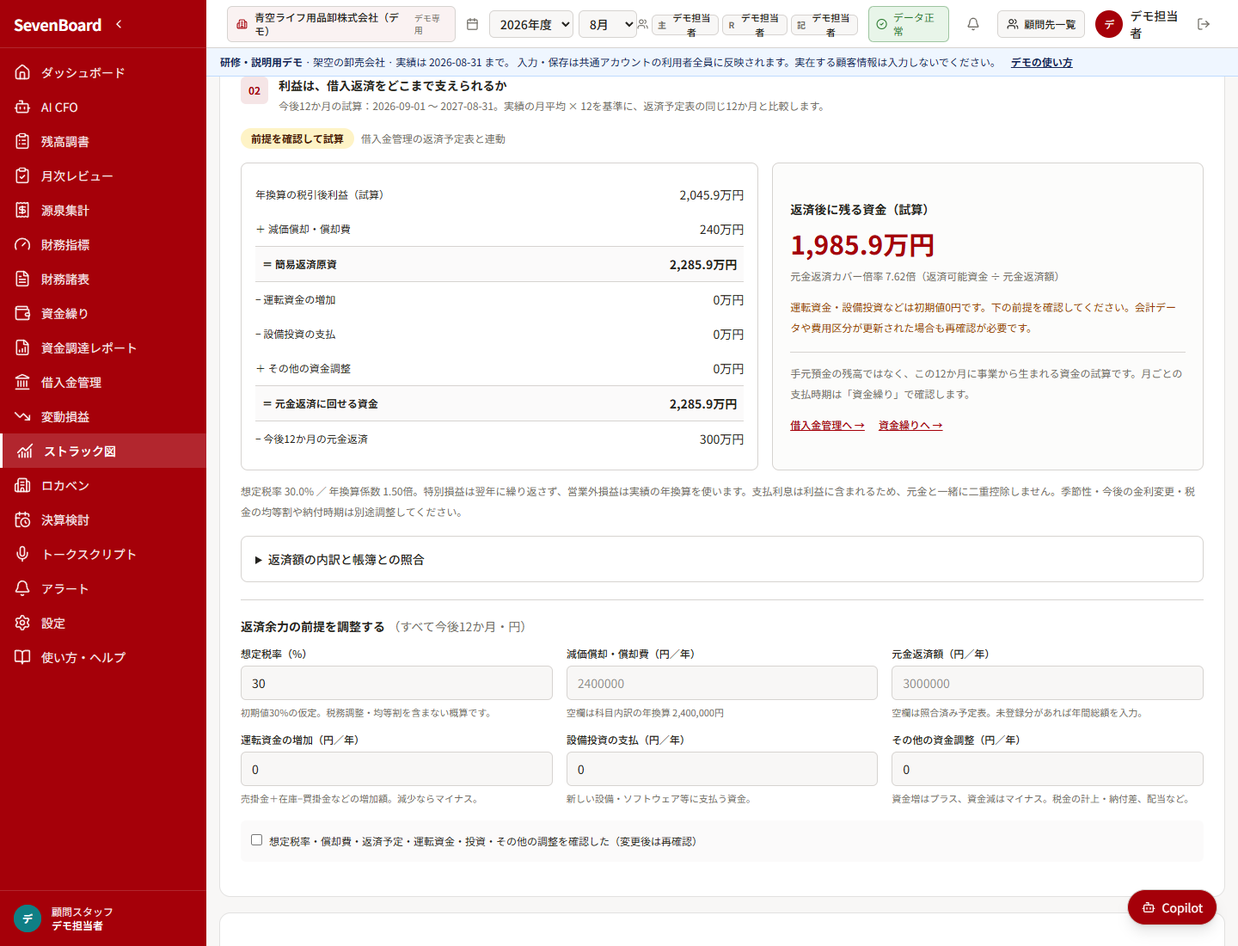
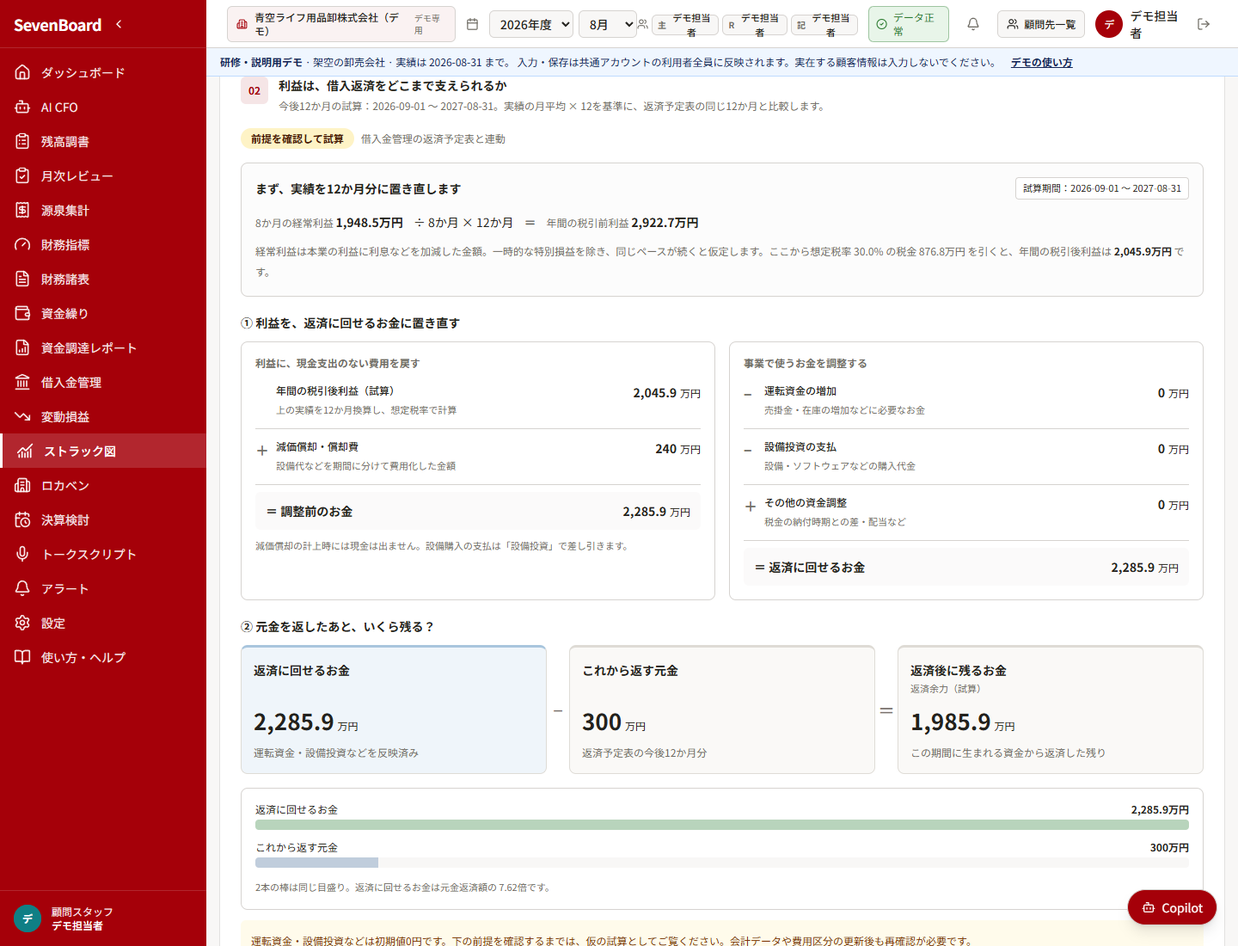
fix: clarify STRAC profit and repayment flows

diff --git a/apps/web/src/app/strac/page.tsx b/apps/web/src/app/strac/page.tsx
@@ -15,6 +15,7 @@ import { usePeriodStore } from '@/lib/period-store';
 import { api } from '@/lib/api';
 import { stracFingerprint, stracActual, stracBookDebt, stracPlan, stracRepayments, stracWindow, normalizeStracAssumptions, type StracAssumptions, type StracWindow } from '@/lib/strac';
 import { StracChart, money, percent, STRAC_UNITS, type StracUnit } from './_chart';
+import { RepaymentFlow } from './_repayment';
 import './strac.css';
 
 const featureKey = 'strac.assumptions.v1';
@@ -46,10 +47,7 @@ function SectionTitle({ number, title, description }: { number: string; title: s
   return <div className="mb-4 flex items-start gap-3"><span className="flex h-8 w-8 shrink-0 items-center justify-center rounded-md bg-primary/10 text-xs font-bold text-primary">{number}</span><div><h2 className="font-bold">{title}</h2><p className="mt-1 text-xs leading-5 text-muted-foreground">{description}</p></div></div>;
 }
 function Metric({ label, value, detail }: { label: string; value: string; detail: string }) {
-  return <Card><CardContent className="p-4"><p className="text-xs text-muted-foreground">{label}</p><p className="mt-2 break-words text-2xl font-bold tabular-nums">{value}</p><p className="mt-1 text-[11px] leading-5 text-muted-foreground">{detail}</p></CardContent></Card>;
-}
-function BridgeRow({ label, value, strong = false }: { label: string; value: string; strong?: boolean }) {
-  return <div className={`flex flex-wrap items-center justify-between gap-2 py-2.5 text-sm ${strong ? 'border-y bg-muted/60 px-2 font-bold' : ''}`}><span className="text-xs">{label}</span><span className="tabular-nums">{value}</span></div>;
+  return <Card data-print-block><CardContent className="p-4"><p className="text-xs text-muted-foreground">{label}</p><p className="mt-2 break-words text-2xl font-bold tabular-nums">{value}</p><p className="mt-1 text-[11px] leading-5 text-muted-foreground">{detail}</p></CardContent></Card>;
 }
 function Insight({ title, children }: { title: string; children: React.ReactNode }) {
   return <div className="rounded-lg border bg-card p-4"><h3 className="flex items-start gap-2 text-sm font-semibold"><ArrowRight className="mt-0.5 h-4 w-4 shrink-0 text-primary" />{title}</h3><p className="mt-2 text-xs leading-7 text-muted-foreground">{children}</p></div>;
@@ -94,21 +92,17 @@ function StracContent({ orgId, company, window: w, readOnly }: { orgId: string; 
     <div className="flex flex-wrap items-center justify-between gap-3 text-xs"><div><p className="font-semibold">{company}</p><p className="mt-1 text-muted-foreground">実績：{w.start} 〜 {w.end}（{w.months}か月累計）</p></div><div className="screen-only flex items-center gap-3"><label>表示単位 <select aria-label="表示単位" value={unit} onChange={e => setUnit(e.target.value as StracUnit)} className="ml-1 rounded border bg-card p-2">{Object.keys(STRAC_UNITS).map(u => <option key={u}>{u}</option>)}</select></label><Button variant="outline" size="sm" onClick={retry} disabled={queries.some(q => q.isFetching)}><RefreshCw className="h-3.5 w-3.5" />再取得</Button></div></div>
     {w.capped && <Notice>未経過の月を含めず、{w.end}までの月末実績を表示しています。</Notice>}
     {!sourceReady && <Notice warning>{issueList(actual.issues)}<p className="mt-2">P/Lとの一致を確認するまで、返済余力の試算を保留します。</p></Notice>}
-    <div className="grid gap-3 sm:grid-cols-2 xl:grid-cols-4">
+    <Card><CardContent className="p-4 sm:p-6">
+      <SectionTitle number="01" title="売上は、どこで利益になるか" description={`実績：${w.start} 〜 ${w.end}（${w.months}か月）。上から順に、売上から最終的な利益までを確認します。`} />
+      {[actual.revenue, actual.variable, actual.fixed, actual.operating].every(Number.isFinite) ? <StracChart data={actual} unit={unit} /> : <Notice warning>図を描画できる数値を取得できませんでした。</Notice>}
+    </CardContent></Card>
+    <div className="strac-metrics grid gap-3 sm:grid-cols-2 xl:grid-cols-4">
       <Metric label="売上100円から残る限界利益" value={actual.margin === null ? '—' : `${(actual.margin * 100).toFixed(1)}円`} detail="売上 − 変動費。固定費と利益の原資です。" />
       <Metric label="損益分岐点売上高" value={amount(actual.breakEven)} detail="営業利益が0になる売上。表示実績期間の金額。" />
       <Metric label="経営安全率" value={percent(actual.safetyMargin)} detail="現在の売上が損益分岐点を上回る割合。" />
       <Metric label="労働分配率" value={percent(actual.laborShare)} detail="固定費に区分した人件費 ÷ 限界利益。" />
     </div>
-    <Card><CardContent className="p-4 sm:p-6">
-      <SectionTitle number="01" title="売上は、どこで利益になるか" description="MFの損益を変動費・固定費に組み替えます。「変動損益」の保存済み区分と連動します。" />
-      {[actual.revenue, actual.variable, actual.fixed, actual.operating].every(Number.isFinite) ? <StracChart data={actual} unit={unit} /> : <Notice warning>図を描画できる数値を取得できませんでした。</Notice>}
-      <div className="mt-4 grid gap-2 rounded-lg bg-muted/60 p-4 sm:grid-cols-5" aria-label="営業利益から当期純利益へのつながり">
-        {([['営業利益', actual.operating], ['営業外損益', actual.nonOperating], ['特別損益', actual.extraordinary], ['法人税等', actual.tax], ['当期純利益', actual.net]] as const).map(([label, v], i) => <div key={label} className="min-w-0"><p className="text-[11px] text-muted-foreground">{i > 0 ? i === 3 ? '− ' : i === 4 ? '= ' : '+ ' : ''}{label}</p><p className="mt-1 break-words text-sm font-bold tabular-nums">{amount(v)}</p></div>)}
-      </div>
-      <p className="mt-2 text-xs text-muted-foreground">税引前利益 {amount(actual.pretax)}。記帳途中・決算整理未反映の数値を含む場合があります。限界利益は粗利とは異なります。荷造運賃など、販管費の変動費も差し引きます。</p>
-    </CardContent></Card>
-    {sourceReady && <div className="grid gap-3 lg:grid-cols-3">
+    {sourceReady && <div className="strac-insights grid gap-3 lg:grid-cols-3">
       <Insight title="売上を増やす前に、残る割合を見る">{actual.margin !== null && actual.margin > 0 ? <>同じ費用構成で売上が100万円増えると、固定費が増えなければ営業利益は約{amount(actual.margin * 1_000_000)}増えます。値引きや追加の人員・物流費をセットで確認しましょう。</> : <>限界利益がプラスになっていません。売上拡大だけでは改善しないため、販売単価・仕入条件・費用区分を先に確認します。</>}</Insight>
       <Insight title="固定費を支える売上の幅をつかむ">{actual.breakEven !== null ? <>現在の売上は損益分岐点を{amount(Math.abs(actual.revenue - actual.breakEven))}{actual.revenue >= actual.breakEven ? '上回っています' : '下回っています'}。{actual.safetyMargin !== null && actual.safetyMargin >= 0 ? `同じ限界利益率なら、売上が約${percent(actual.safetyMargin)}減ると営業利益が0になります。` : '限界利益の増加または固定費の見直しが必要です。'}</> : <>限界利益率が0以下などのため、損益分岐点を算出できません。費用の区分と採算を確認します。</>}</Insight>
       <Insight title="利益と返済原資の差に注目する">借入元金の返済は費用になりません。利益に減価償却費を戻し、在庫・売掛金の増加や設備投資で使う資金を引いたうえで、下の返済予定額と比較します。</Insight>
@@ -120,18 +114,7 @@ function StracContent({ orgId, company, window: w, readOnly }: { orgId: string; 
       {(loans.isError || bs.isError) && <Notice warning>返済予定表または帳簿残高を取得できませんでした。元金返済額は未確認です。「再取得」または確認済みの年間返済額を入力してください。</Notice>}
       {repayment && !repayment.complete && <Notice warning>{issueList(repayment.issues)}<Link href="/loans" className="mt-2 inline-block underline">借入金管理で確認する</Link></Notice>}
       {repayment?.estimated && <p className="mb-3 text-xs text-amber-800">返済予定表に推定した金額が含まれています。銀行の予定表と照合してください。</p>}
-      {validPlan ? <div className="mt-4 grid gap-4 lg:grid-cols-[1.2fr_1fr]">
-        <div className="rounded-lg border p-4" aria-label="返済原資の計算">
-          <BridgeRow label="年換算の税引後利益（試算）" value={amount(plan.base.net)} /><BridgeRow label="＋ 減価償却・償却費" value={amount(plan.depreciation)} /><BridgeRow label="＝ 簡易返済原資" value={amount(plan.base.simpleCash)} strong />
-          <BridgeRow label="− 運転資金の増加" value={amount(plan.workingCapital)} /><BridgeRow label="− 設備投資の支払" value={amount(plan.capex)} /><BridgeRow label="＋ その他の資金調整" value={amount(plan.otherCash)} /><BridgeRow label="＝ 元金返済に回せる資金" value={amount(plan.base.availableCash)} strong /><BridgeRow label="− 今後12か月の元金返済" value={amount(plan.principal)} />
-        </div>
-        <div data-print-block className="flex flex-col justify-center rounded-lg border bg-muted/40 p-5"><p className="text-sm font-semibold">返済後に残る資金（試算）</p><p data-testid="strac-surplus" className={`mt-3 break-words text-3xl font-bold tabular-nums ${plan.base.surplus !== null && plan.base.surplus < 0 ? 'text-red-700' : 'text-primary'}`}>{amount(plan.base.surplus)}</p>
-          <p className="mt-2 text-xs leading-6 text-muted-foreground">{plan.base.coverage === null ? plan.principal === 0 ? '登録・確認済みの元金返済額は0円です。倍率は表示しません。' : '返済額が未確認のため、過不足を判定していません。' : `元金返済カバー倍率 ${plan.base.coverage.toFixed(2)}倍（返済可能資金 ÷ 元金返済額）`}</p>
-          {!reviewed && <p className="mt-3 text-xs leading-6 text-amber-800">運転資金・設備投資などは初期値0円です。下の前提を確認してください。会計データや費用区分が更新された場合も再確認が必要です。</p>}
-          <div className="mt-4 border-t pt-3 text-xs leading-6 text-muted-foreground">手元預金の残高ではなく、この12か月に事業から生まれる資金の試算です。月ごとの支払時期は「資金繰り」で確認します。</div>
-          <div className="screen-only mt-4 flex flex-wrap gap-4 text-xs font-medium text-primary"><Link href="/loans" className="underline">借入金管理へ →</Link><Link href="/cashflow" className="underline">資金繰りへ →</Link></div>
-        </div>
-      </div> : <Notice warning>{saved.isPending ? '保存済みの前提を読み込んでいます…' : saved.isError ? '保存済みの前提を取得できないため試算を保留しています。再取得してください。' : issueList(plan.issues)}</Notice>}
+      {validPlan ? <RepaymentFlow plan={plan} actual={actual} window={w} unit={unit} reviewed={reviewed} /> : <Notice warning>{saved.isPending ? '保存済みの前提を読み込んでいます…' : saved.isError ? '保存済みの前提を取得できないため試算を保留しています。再取得してください。' : issueList(plan.issues)}</Notice>}
       <p className="mt-3 text-xs leading-6 text-muted-foreground">想定税率 {percent(plan.taxRate)} ／ 年換算係数 {plan.factor.toFixed(2)}倍。特別損益は翌年に繰り返さず、営業外損益は実績の年換算を使います。支払利息は利益に含まれるため、元金と一緒に二重控除しません。季節性・今後の金利変更・税金の均等割や納付時期は別途調整してください。</p>
       <details className="mt-4 rounded-lg border p-4"><summary className="cursor-pointer text-sm font-medium">返済額の内訳と帳簿との照合</summary>
         {repayment ? <div className="mt-3 text-xs leading-6"><p>基準日 {w.end}：予定表残高 {yen(repayment.balance)} ／ 帳簿借入残高 {yen(bs.data ? stracBookDebt(bs.data) : null)}</p>{repayment.rows.length > 0 ? <div className="mt-2 space-y-2">{repayment.rows.map(r => <div key={r.id} className="flex flex-wrap justify-between gap-2 rounded bg-muted p-2"><Link href={`/loans/${r.id}`} className="underline">{r.name}</Link><span>元金 {yen(r.principal)} ／ 利息 {yen(r.interest)}（参考）</span></div>)}</div> : <p>登録された借入はありません。</p>}{plan.manualPrincipal && <p className="mt-2 text-amber-800">試算には、手入力の元金返済額 {yen(plan.principal)}を使用しています。</p>}</div> : <p className="mt-3 text-xs text-muted-foreground">返済額の取得・照合が完了していません。</p>}
@@ -157,7 +140,7 @@ function StracContent({ orgId, company, window: w, readOnly }: { orgId: string; 
         {field('fixedReduction', '固定費の削減額（円／年）', '支出を伴う費用の削減。償却費も変える場合は前提欄も調整。')}
         {field('retainedCash', '返済後に残したい資金（円／年）', '下の「必要売上高」に反映します。')}
       </div>
-      {validPlan ? <div className="mt-5 grid gap-3 lg:grid-cols-3">
+      {validPlan ? <div className="strac-scenario mt-5 grid gap-3 lg:grid-cols-3">
         <Metric label="改善後の返済余力" value={amount(plan.scenario.surplus)} detail={`改善前 ${amount(plan.base.surplus)} → 差額 ${amount(delta)}`} />
         <Metric label="返済と目標資金を満たす必要売上高" value={amount(plan.scenario.requiredRevenue)} detail={plan.scenario.requiredRevenue === null ? '元金返済額の確認と、プラスの限界利益率が必要です。' : `改善後の限界利益率 ${percent(plan.scenario.margin)}・固定費 ${amount(plan.scenario.fixed)}で逆算。`} />
         <Metric label="改善シナリオの年間売上" value={amount(plan.scenario.revenue)} detail={plan.scenario.requiredRevenue === null ? '必要売上高は未算出です。' : plan.scenario.revenue >= plan.scenario.requiredRevenue ? `必要売上を ${amount(plan.scenario.revenue - plan.scenario.requiredRevenue)}上回る計画です。` : `目標まで、さらに ${amount(plan.scenario.requiredRevenue - plan.scenario.revenue)}の売上が必要です。`} />

diff --git a/apps/web/src/app/strac/_repayment.tsx b/apps/web/src/app/strac/_repayment.tsx
@@ -1,0 +1,60 @@
+import Link from 'next/link';
+import type { stracPlan, StracActual, StracWindow } from '@/lib/strac';
+import { FlowAmount, FlowCard, money, percent, type StracUnit } from './_chart';
+
+type Plan = ReturnType<typeof stracPlan>;
+function Adjustment({ sign, label, description, value, unit }: { sign: string; label: string; description: string; value: number; unit: StracUnit }) {
+  return <div className="flex flex-wrap items-start justify-between gap-x-4 gap-y-1 border-b py-3 last:border-0"><div className="flex min-w-0 items-start gap-2"><span className="w-4 shrink-0 text-base font-semibold text-muted-foreground" aria-hidden="true">{sign}</span><div><p className="text-xs font-medium">{label}</p><p className="mt-1 text-[11px] leading-5 text-muted-foreground">{description}</p></div></div><p className="ml-6 text-sm font-semibold"><FlowAmount value={value} unit={unit} /></p></div>;
+}
+
+export function RepaymentFlow({ plan: p, actual, window: w, unit, reviewed }: { plan: Plan; actual: StracActual; window: StracWindow; unit: StracUnit; reviewed: boolean }) {
+  const base = p.base;
+  const negative = base.surplus !== null && base.surplus < 0;
+  const scale = Math.max(1, base.availableCash, p.principal ?? 0);
+  const amount = (v: number | null) => `${money(v, unit)}${v === null ? '' : unit}`;
+  return <div className="mt-4 space-y-5">
+    <div data-print-block className="rounded-lg border bg-muted/30 p-4">
+      <div className="flex flex-wrap items-center justify-between gap-2"><h3 className="text-sm font-semibold">まず、実績を12か月分に置き直します</h3><span className="rounded border bg-card px-2 py-1 text-[11px]">試算期間：{w.nextStart} 〜 {w.nextEnd}</span></div>
+      <div className="mt-3 flex flex-wrap items-center gap-x-3 gap-y-2 text-sm leading-7" aria-label="実績から年間利益への換算">
+        <span><span className="text-xs text-muted-foreground">{w.months}か月の経常利益 </span><strong>{amount(actual.ordinary)}</strong></span><span>÷ {w.months}か月 × 12か月</span><span>＝</span><span><span className="text-xs text-muted-foreground">年間の税引前利益 </span><strong>{amount(base.pretax)}</strong></span>
+      </div>
+      <p className="mt-2 text-xs leading-6 text-muted-foreground">経常利益は本業の利益に利息などを加減した金額。一時的な特別損益を除き、同じペースが続くと仮定します。ここから想定税率 {percent(p.taxRate)} の税金 {amount(base.tax)} を引くと、年間の税引後利益は <strong className="text-foreground">{amount(base.net)}</strong> です。</p>
+    </div>
+
+    <div data-print-block>
+      <h3 className="mb-3 text-sm font-semibold">① 利益を、返済に回せるお金に置き直す</h3>
+      <div className="strac-cash-adjustments grid gap-4 lg:grid-cols-2" aria-label="返済原資の計算">
+        <div className="rounded-lg border p-4">
+          <p className="mb-1 text-xs font-semibold text-muted-foreground">利益に、現金支出のない費用を戻す</p>
+          <Adjustment sign="" label="年間の税引後利益（試算）" description="上の実績を12か月換算し、想定税率で計算" value={base.net} unit={unit} />
+          <Adjustment sign="＋" label="減価償却・償却費" description="設備代などを期間に分けて費用化した金額" value={p.depreciation} unit={unit} />
+          <div className="mt-2 flex flex-wrap justify-between gap-2 rounded-md bg-muted/60 p-3 text-sm font-semibold"><span>＝ 調整前のお金</span><FlowAmount value={base.simpleCash} unit={unit} /></div>
+          <p className="mt-2 text-[11px] leading-5 text-muted-foreground">減価償却の計上時には現金は出ません。設備購入の支払は「設備投資」で差し引きます。</p>
+        </div>
+        <div className="rounded-lg border p-4">
+          <p className="mb-1 text-xs font-semibold text-muted-foreground">事業で使うお金を調整する</p>
+          <Adjustment sign="−" label="運転資金の増加" description="売掛金・在庫の増加などに必要なお金" value={p.workingCapital} unit={unit} />
+          <Adjustment sign="−" label="設備投資の支払" description="設備・ソフトウェアなどの購入代金" value={p.capex} unit={unit} />
+          <Adjustment sign="＋" label="その他の資金調整" description="税金の納付時期との差・配当など" value={p.otherCash} unit={unit} />
+          <div className="mt-2 flex flex-wrap justify-between gap-2 rounded-md bg-muted/60 p-3 text-sm font-semibold"><span>＝ 返済に回せるお金</span><FlowAmount value={base.availableCash} unit={unit} /></div>
+        </div>
+      </div>
+    </div>
+
+    <div data-print-block>
+      <h3 className="mb-3 text-sm font-semibold">② 元金を返したあと、いくら残る？</h3>
+      <div className="strac-flow strac-flow-three strac-repayment-result" aria-label="返済後に残るお金の計算">
+        <FlowCard label="返済に回せるお金" value={base.availableCash} unit={unit} tone="sales" testId="strac-available">運転資金・設備投資などを反映済み</FlowCard>
+        <FlowCard label="これから返す元金" value={p.principal} unit={unit} operator="−" testId="strac-principal">{p.principal === null ? '返済予定が未確認です' : p.manualPrincipal ? '手入力した今後12か月の総額' : '返済予定表の今後12か月分'}</FlowCard>
+        <FlowCard label={base.surplus === null ? '返済後に残るお金' : negative ? '返済に足りないお金' : '返済後に残るお金'} term="返済余力（試算）" value={base.surplus} unit={unit} operator="＝" tone={negative ? 'profit' : reviewed && base.surplus !== null ? 'margin' : 'neutral'} testId="strac-surplus">{base.surplus === null ? '返済額を確認すると計算できます' : negative ? 'この前提では返済資金が不足します' : 'この期間に生まれる資金から返済した残り'}</FlowCard>
+      </div>
+      {p.principal !== null && base.availableCash >= 0 ? <div className="mt-4 space-y-3 rounded-lg border p-4" aria-label="返済原資と元金返済の同じ目盛りでの比較">
+        {[{ label: '返済に回せるお金', value: base.availableCash, color: '#b8d4bc' }, { label: 'これから返す元金', value: p.principal, color: '#c0cddc' }].map(row => <div key={row.label}><div className="mb-1 flex flex-wrap justify-between gap-2 text-xs"><span>{row.label}</span><span className="font-semibold tabular-nums">{amount(row.value)}</span></div><div className="h-3 overflow-hidden rounded-sm bg-muted"><div className="h-full" style={{ width: `${row.value / scale * 100}%`, backgroundColor: row.color }} /></div></div>)}
+        <p className="text-[11px] leading-5 text-muted-foreground">2本の棒は同じ目盛り。{p.principal === 0 ? '確認済みの元金返済額は0円です。' : `返済に回せるお金は元金返済額の ${base.coverage?.toFixed(2)}倍です。`}</p>
+      </div> : <p className="mt-3 text-xs leading-6 text-amber-800">{p.principal === null ? '返済額が未確認のため、過不足を判定していません。' : '返済に回せるお金がマイナスです。元金返済前から、事業に使う資金が不足する試算です。'}</p>}
+      {!reviewed && <p className="mt-3 rounded-md bg-amber-50 p-3 text-xs leading-6 text-amber-900">運転資金・設備投資などは初期値0円です。下の前提を確認するまでは、仮の試算としてご覧ください。会計データや費用区分の更新後も再確認が必要です。</p>}
+      <p className="mt-3 text-xs leading-6 text-muted-foreground">元金返済は費用にならないため、利益からお金に置き直して差し引きます。利息はすでに利益に含まれています。ここで残るお金は預金残高ではありません。</p>
+      <div className="screen-only mt-3 flex flex-wrap gap-4 text-xs font-medium text-primary"><Link href="/loans" className="underline">返済予定を確認 →</Link><Link href="/cashflow" className="underline">月ごとの資金繰りを確認 →</Link></div>
+    </div>
+  </div>;
+}

diff --git a/apps/web/src/app/strac/_chart.tsx b/apps/web/src/app/strac/_chart.tsx
@@ -8,8 +8,8 @@ export function money(value: number | null, unit: StracUnit = '万円') {
 }
 export const percent = (v: number | null) => v === null || !Number.isFinite(v) ? '—' : `${(v * 100).toFixed(1)}%`;
 
-/** Amounts are outside the proportional bands, so even thin bands remain legible. */
-export function StracChart({ data: d, unit }: { data: StracActual; unit: StracUnit }) {
+/** Supplemental area view. Amounts stay outside the proportional bands. */
+function StracAreaChart({ data: d, unit }: { data: StracActual; unit: StracUnit }) {
   const proportional = d.revenue > 0 && [d.variable, d.contribution, d.fixed, d.personnel, d.otherFixed, d.operating].every(v => v >= 0);
   const values = [
     { label: '売上高', value: d.revenue, color: '#cfe2f3' },
@@ -53,5 +53,53 @@ export function StracChart({ data: d, unit }: { data: StracActual; unit: StracUn
       {values.map(v => <div key={v.label} className="rounded-md border p-3" style={{ borderTopColor: v.color, borderTopWidth: 3 }}><div className="text-xs text-muted-foreground">{v.label}</div><div className="mt-1 break-words text-lg font-bold tabular-nums" title={`${v.value.toLocaleString('ja-JP')}円`}>{money(v.value, unit)}<span className="ml-1 text-[10px] font-normal">{unit}</span></div></div>)}
     </div>
     <p className="mt-2 text-xs leading-6 text-muted-foreground">固定費の内訳：人件費 {money(d.personnel, unit)}{unit} ／ その他 {money(d.otherFixed, unit)}{unit}。金額は図の下に表示しています。</p>
+  </div>;
+}
+
+
+export function FlowAmount({ value, unit }: { value: number | null; unit: StracUnit }) {
+  return <span className={`strac-amount tabular-nums ${value !== null && value < 0 ? 'text-red-700' : ''}`} title={value === null ? '未確認' : `${Math.round(value).toLocaleString('ja-JP')}円`}>{money(value, unit)}{value !== null && <span className="ml-1 text-xs font-normal">{unit}</span>}</span>;
+}
+
+export function FlowCard({ label, term, value, unit, operator, tone = 'neutral', children, testId }: {
+  label: string; term?: string; value: number | null; unit: StracUnit; operator?: string;
+  tone?: 'neutral' | 'sales' | 'margin' | 'cost' | 'profit'; children?: React.ReactNode; testId?: string;
+}) {
+  return <div className={`strac-flow-card strac-tone-${tone}`}>
+    {operator && <span className="strac-operator" aria-label={operator === '−' ? '差し引く' : operator === '＋' ? '加える' : 'イコール'}>{operator}</span>}
+    <div><p className="text-sm font-semibold leading-6">{label}</p>{term && <p className="mt-0.5 text-[11px] text-muted-foreground">{term}</p>}</div>
+    <p data-testid={testId} className="mt-3 text-xl font-bold leading-8"><FlowAmount value={value} unit={unit} /></p>
+    {children && <p className="mt-2 text-xs leading-5 text-muted-foreground">{children}</p>}
+  </div>;
+}
+
+/** Reading order stays fixed, even when profit is small or negative. */
+export function StracChart({ data: d, unit }: { data: StracActual; unit: StracUnit }) {
+  return <div className="space-y-5">
+    <div data-print-block>
+      <h3 className="mb-3 text-sm font-semibold">売上から、本業の利益へ</h3>
+      <div className="strac-flow strac-flow-five" aria-label="売上から営業利益への計算">
+        <FlowCard label="売上" term="売上高" value={d.revenue} unit={unit} tone="sales">商品・サービスの売上</FlowCard>
+        <FlowCard label="変動費" value={d.variable} unit={unit} operator="−">仕入・外注など、売上に連動</FlowCard>
+        <FlowCard label="限界利益" value={d.contribution} unit={unit} operator="＝" tone="margin">固定費と利益のもと</FlowCard>
+        <FlowCard label="固定費" value={d.fixed} unit={unit} operator="−" tone="cost">人件費・家賃など</FlowCard>
+        <FlowCard label="本業の利益" term="営業利益" value={d.operating} unit={unit} operator="＝" tone="profit">本業の費用を引いた利益</FlowCard>
+      </div>
+      <p className="mt-3 text-xs leading-6 text-muted-foreground">固定費の内訳：人件費 {money(d.personnel, unit)}{unit} ／ その他 {money(d.otherFixed, unit)}{unit}。限界利益には、荷造運賃など販管費の変動費も反映します。</p>
+    </div>
+    <div data-print-block className="border-t pt-5">
+      <h3 className="mb-2 text-sm font-semibold">税金を引くと、最終的にいくら利益が残る？</h3>
+      <p className="mb-3 text-xs leading-6 text-muted-foreground">本業の利益に、利息などの営業外損益と臨時の特別損益を加減したものが「税金を引く前の利益」です。</p>
+      <div className="strac-flow strac-flow-three" aria-label="税金を引く前から引いた後の利益">
+        <FlowCard label="税金を引く前の利益" term="税引前当期利益" value={d.pretax} unit={unit} tone="profit" testId="strac-pretax">本業以外の損益も含めた利益</FlowCard>
+        <FlowCard label="利益にかかる税金" term="法人税等" value={d.tax} unit={unit} operator="−">会計に計上された税金</FlowCard>
+        <FlowCard label="税金を引いた後の利益" term="当期純利益" value={d.net} unit={unit} operator="＝" tone="margin" testId="strac-net">損益計算書の最終的な利益</FlowCard>
+      </div>
+      <div className="mt-3 flex flex-wrap gap-x-4 gap-y-1 rounded-md bg-muted/40 p-3 text-xs leading-6" aria-label="税引前利益の内訳">
+        <span>営業利益 {money(d.operating, unit)}{unit}</span><span>＋ 営業外損益 {money(d.nonOperating, unit)}{d.nonOperating === null ? '' : unit}</span><span>＋ 特別損益 {money(d.extraordinary, unit)}{d.extraordinary === null ? '' : unit}</span><span className="font-semibold">＝ 税引前当期利益 {money(d.pretax, unit)}{d.pretax === null ? '' : unit}</span>
+      </div>
+      <p className="mt-2 text-xs leading-6 text-muted-foreground">ここまでは実績の利益です。記帳途中・決算整理未反映の場合があります。端数は四捨五入しています。円単位は「表示単位」で切り替えられます。</p>
+    </div>
+    <details className="rounded-lg border p-3"><summary className="cursor-pointer text-xs font-medium">面積で費用構成を見る（ストラック図の詳細）</summary><div className="mt-3"><StracAreaChart data={d} unit={unit} /></div></details>
   </div>;
 }

diff --git a/apps/web/src/app/help/_content.ts b/apps/web/src/app/help/_content.ts
@@ -37,8 +37,8 @@ export const helpArticles: HelpArticle[] = [
     images: [{ file: "strac", caption: "デモの2026年1〜8月累計。売上から変動費・限界利益・固定費・営業利益を分解します。" }, { file: "strac-repayment", caption: "同じ実績を年換算し、今後12か月の元金返済300万円と比較。運転資金や設備投資は前提欄で調整します。" }],
     steps: [
       { title: "会社と実績期間を確認する", body: "左メニューの「ストラック図」を開きます。図と上段の指標は期首から基準月末までの累計です。未経過月は含めず、年換算できる月末までの実績を使います。デモは2026年8月までの実績を確認できます。" },
-      { title: "売上から利益への分解を読む", body: "売上から変動費を引くと限界利益、さらに固定費を引くと営業利益になります。固定費の内訳は人件費とその他です。図の下に金額を表示し、薄い帯でも数値が重ならないようにしています。「費用の区分」での変更は変動損益にも共有されます。" },
-      { title: "利益から元金返済に回せる資金へつなぐ", body: "返済余力は基準月の翌月から12か月の試算です。実績の月平均を12倍し、特別損益を除いた利益に想定税率を適用します。償却費を戻し、運転資金の増加・設備投資・その他の資金調整を反映して、同じ12か月の元金返済と比べます。" },
+      { title: "売上から利益への分解を読む", body: "売上から変動費を引くと限界利益、さらに固定費を引くと営業利益になります。税引前当期利益は「税金を引く前の利益」、当期純利益は「税金を引いた後の利益」と表示します。引き算の順に読むと、最終的な利益が分かります。面積で見る図は詳細を開くと確認できます。「費用の区分」での変更は変動損益にも共有されます。" },
+      { title: "利益から元金返済に回せる資金へつなぐ", body: "返済余力は基準月の翌月から12か月の試算です。実績の月平均を12倍し、特別損益を除いた利益に想定税率を適用します。償却費を戻し、運転資金の増加・設備投資・その他の資金調整を反映します。「返済に回せるお金 − これから返す元金 ＝ 返済後に残るお金」の3つを順に読みます。棒グラフは同じ目盛りで両者を比べます。" },
       { title: "前提と返済予定表を確かめる", body: "税率は初期値30%の仮定です。運転資金・投資等は初期値0円なので、実態に合わせて入力してください。返済予定表が未登録・不完全、帳簿残高と不一致の場合は自動判定を保留します。確認した年間元金総額を手入力することもできます。利息は利益に含むため二重には差し引きません。" },
       { title: "改善策を試して前提を保存する", body: "売上の増減・限界利益率の改善・固定費の削減を入力し、返済余力の差額と必要売上高を確認します。増収で在庫や売掛金が増えるなら運転資金も調整します。「この期間の前提を保存」で会社・基準月ごとに共有できます。期間を切り替える前に保存してください。PDF出力も利用できます。" },
     ],

diff --git a/apps/web/src/app/strac/strac.css b/apps/web/src/app/strac/strac.css
@@ -23,3 +23,41 @@
   body:has(.strac-page) header > div { flex-shrink: 0; }
   body:has(.strac-page) main { padding: 12px; }
 }
+
+.strac-flow { display: grid; gap: 26px; }
+.strac-flow-five { grid-template-columns: repeat(5, minmax(0, 1fr)); }
+.strac-flow-three { grid-template-columns: repeat(3, minmax(0, 1fr)); }
+.strac-flow-card { position: relative; min-width: 0; border: 1px solid #dedbd5; border-top-width: 3px; border-radius: 8px; padding: 14px; background: #faf9f7; }
+.strac-flow-card > div:first-of-type { min-height: 43px; }
+.strac-tone-sales { background: #eff5fa; border-top-color: #a8c5dd; }
+.strac-tone-margin { background: #eff5ed; border-top-color: #aecba6; }
+.strac-tone-cost { background: #fff9e8; border-top-color: #e4ca80; }
+.strac-tone-profit { background: #fdf2eb; border-top-color: #e5b394; }
+.strac-operator { position: absolute; top: 50%; left: -27px; width: 26px; text-align: center; transform: translateY(-50%); color: #78716c; font-size: 20px; font-weight: 500; }
+.strac-amount { overflow-wrap: anywhere; }
+.strac-repayment-result .strac-amount { font-size: 26px; }
+@media screen and (max-width: 1199px) {
+  .strac-flow-five { grid-template-columns: 1fr; }
+  .strac-flow-five .strac-flow-card { display: grid; grid-template-columns: 1fr 1fr; gap: 0 12px; }
+  .strac-flow-five .strac-flow-card > p:first-of-type { text-align: right; margin-top: 0; align-self: center; }
+  .strac-flow-five .strac-flow-card > p:last-of-type { grid-column: 1 / -1; }
+  .strac-flow-five .strac-operator { top: -28px; left: calc(50% - 13px); transform: none; line-height: 26px; }
+}
+@media screen and (max-width: 959px) {
+  .strac-flow-three { grid-template-columns: 1fr; }
+  .strac-flow-three .strac-operator { top: -28px; left: calc(50% - 13px); transform: none; line-height: 26px; }
+}
+@media print {
+  .strac-flow { gap: 18px; }
+  .strac-flow-card { padding: 9px; print-color-adjust: exact; }
+  .strac-flow-card .strac-amount { font-size: 16px; }
+  .strac-operator { left: -19px; width: 18px; font-size: 16px; }
+}
+
+@media print {
+  .strac-metrics { grid-template-columns: repeat(4, minmax(0, 1fr)); break-inside: avoid; }
+  .strac-insights, .strac-scenario { grid-template-columns: repeat(3, minmax(0, 1fr)); break-inside: avoid; }
+  .strac-cash-adjustments { grid-template-columns: repeat(2, minmax(0, 1fr)); }
+  .strac-metrics .text-2xl, .strac-scenario .text-2xl { font-size: 18px; }
+  .strac-insights .leading-7 { line-height: 1.7; }
+}

diff --git a/docs/strac-20260918.md b/docs/strac-20260918.md
@@ -3,11 +3,13 @@
 ## 追加した画面
 
 - `/strac`。既存のデザインを使い、変動損益の次にメニューを追加。
-- ユーザー提供の `strac-chart.html` を参考に、実際のMF損益と借入返済予定表に接続。売上→変動費・限界利益→固定費・営業利益を分解。小さな帯の金額は図の下に配置する。
-- 営業外損益・特別損益・税金を経て当期純利益に至る数値を併記。
+- ユーザー提供の `strac-chart.html` を参考に、実際のMF損益と借入返済予定表に接続。売上→変動費・限界利益→固定費・営業利益を、金額の大小によらず読めるカードと演算記号で分解。面積による図は詳細で確認できる。
+- 「税金を引く前の利益 − 利益にかかる税金 ＝ 税金を引いた後の利益」を大きく表示。会計用語と営業外損益・特別損益の内訳を併記。
 - 限界利益率、営業利益の損益分岐点、経営安全率、固定人件費の労働分配率と、データに基づく説明。
 - 増収・利益率改善・固定費削減のシナリオ、返済と目標資金を満たす必要売上高。
 - `/help/strac`、印刷/PDF、表示単位の切替。
+
+返済図は、実績から12か月への換算→現金支出のない費用・資金調整→返済に回せるお金−元金＝返済後に残るお金、の順に表示。同一目盛りの棒で原資と返済額を比較し、未確認の返済額は棒と判定を出さない。負の原資は不足として表示する。
 
 ## 計算の境界
 
